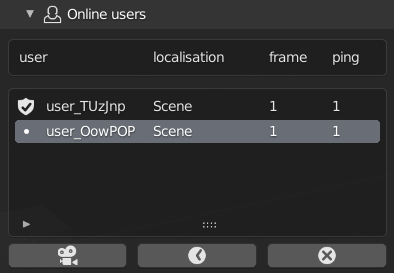
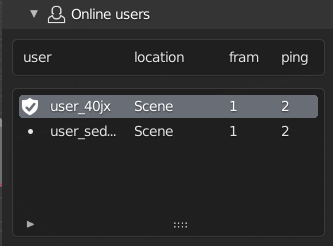
fix: wrong orthograph

diff --git a/multi_user/ui.py b/multi_user/ui.py
@@ -315,7 +315,7 @@ class SESSION_PT_user(bpy.types.Panel):
         split = box.split(factor=0.35)
         split.label(text="user")
         split = split.split(factor=0.5)
-        split.label(text="localisation")
+        split.label(text="location")
         split.label(text="frame")
         split.label(text="ping")
 
